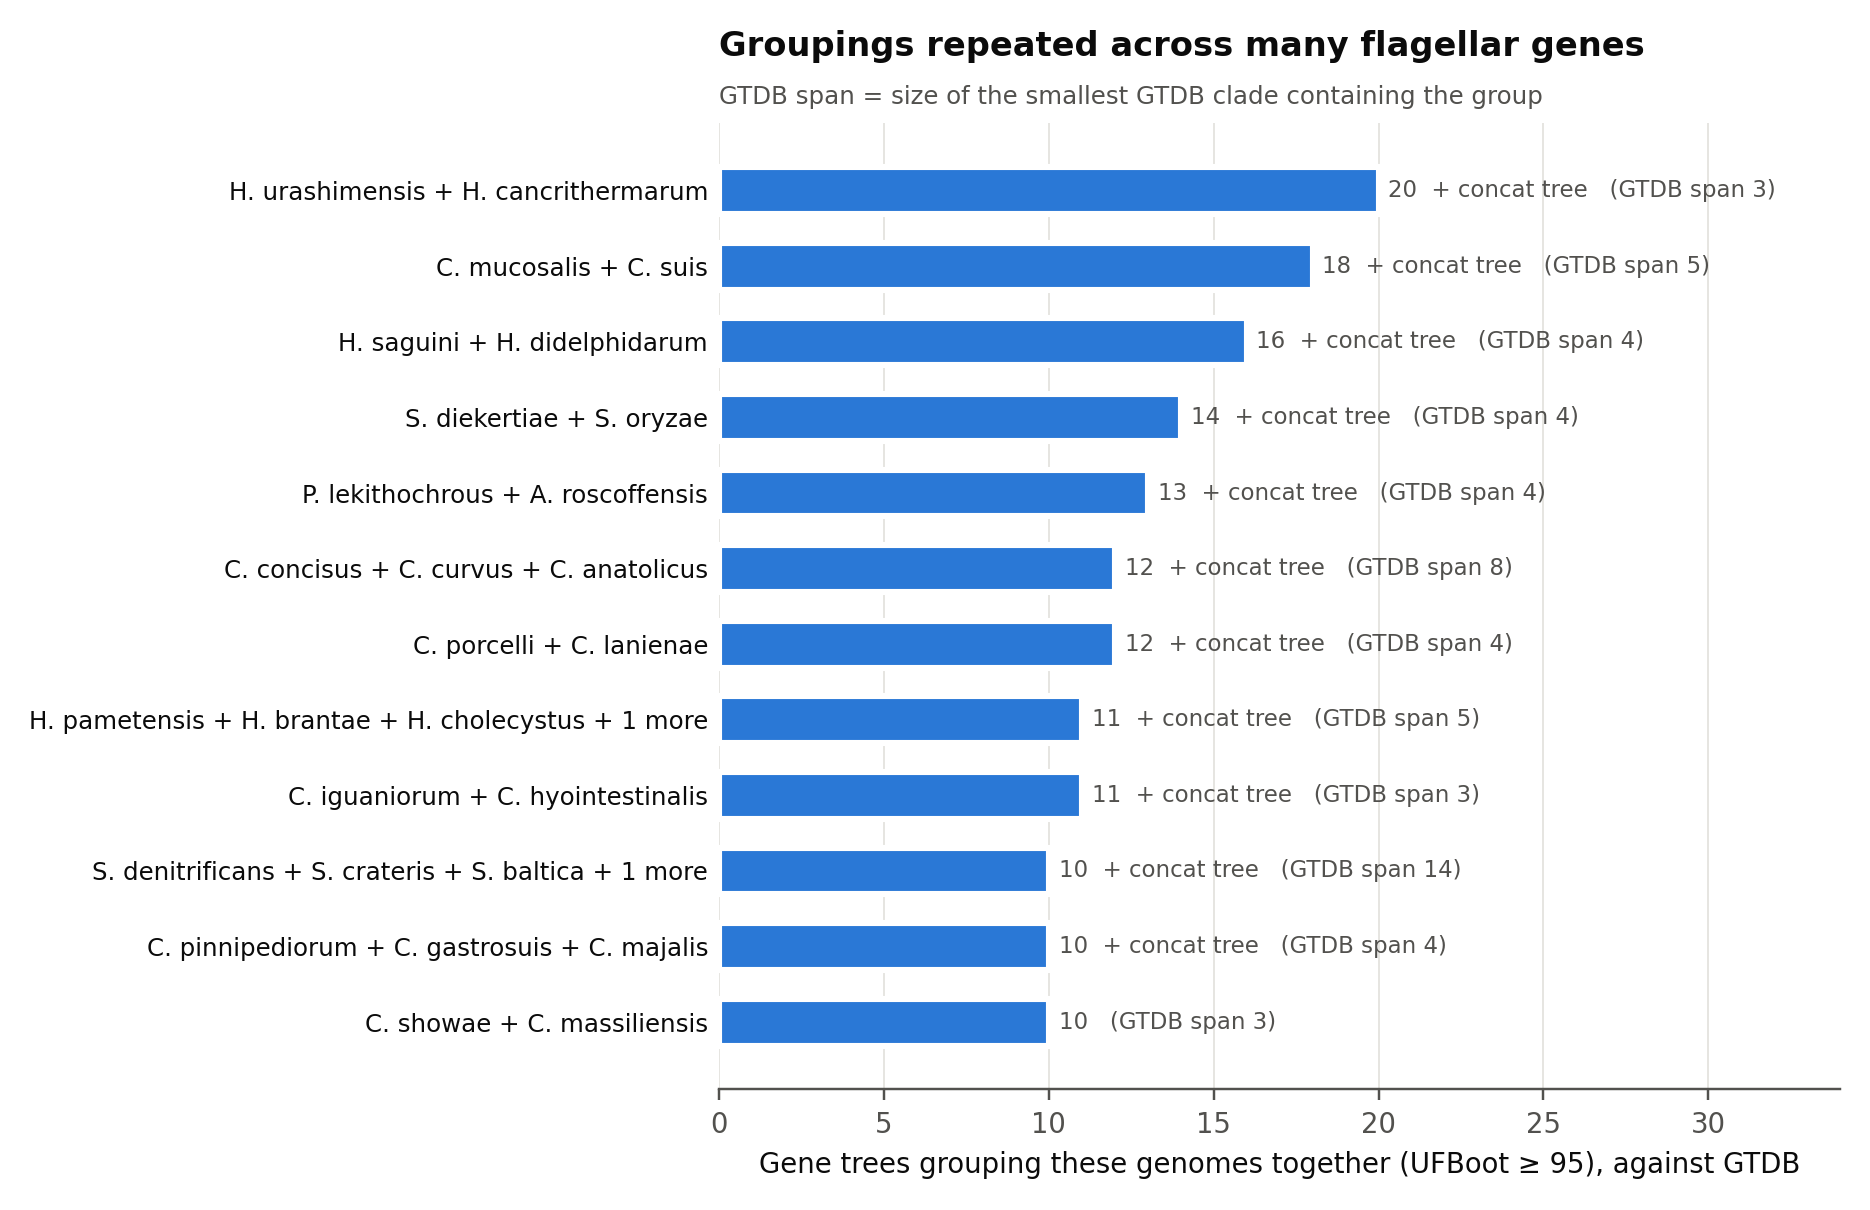
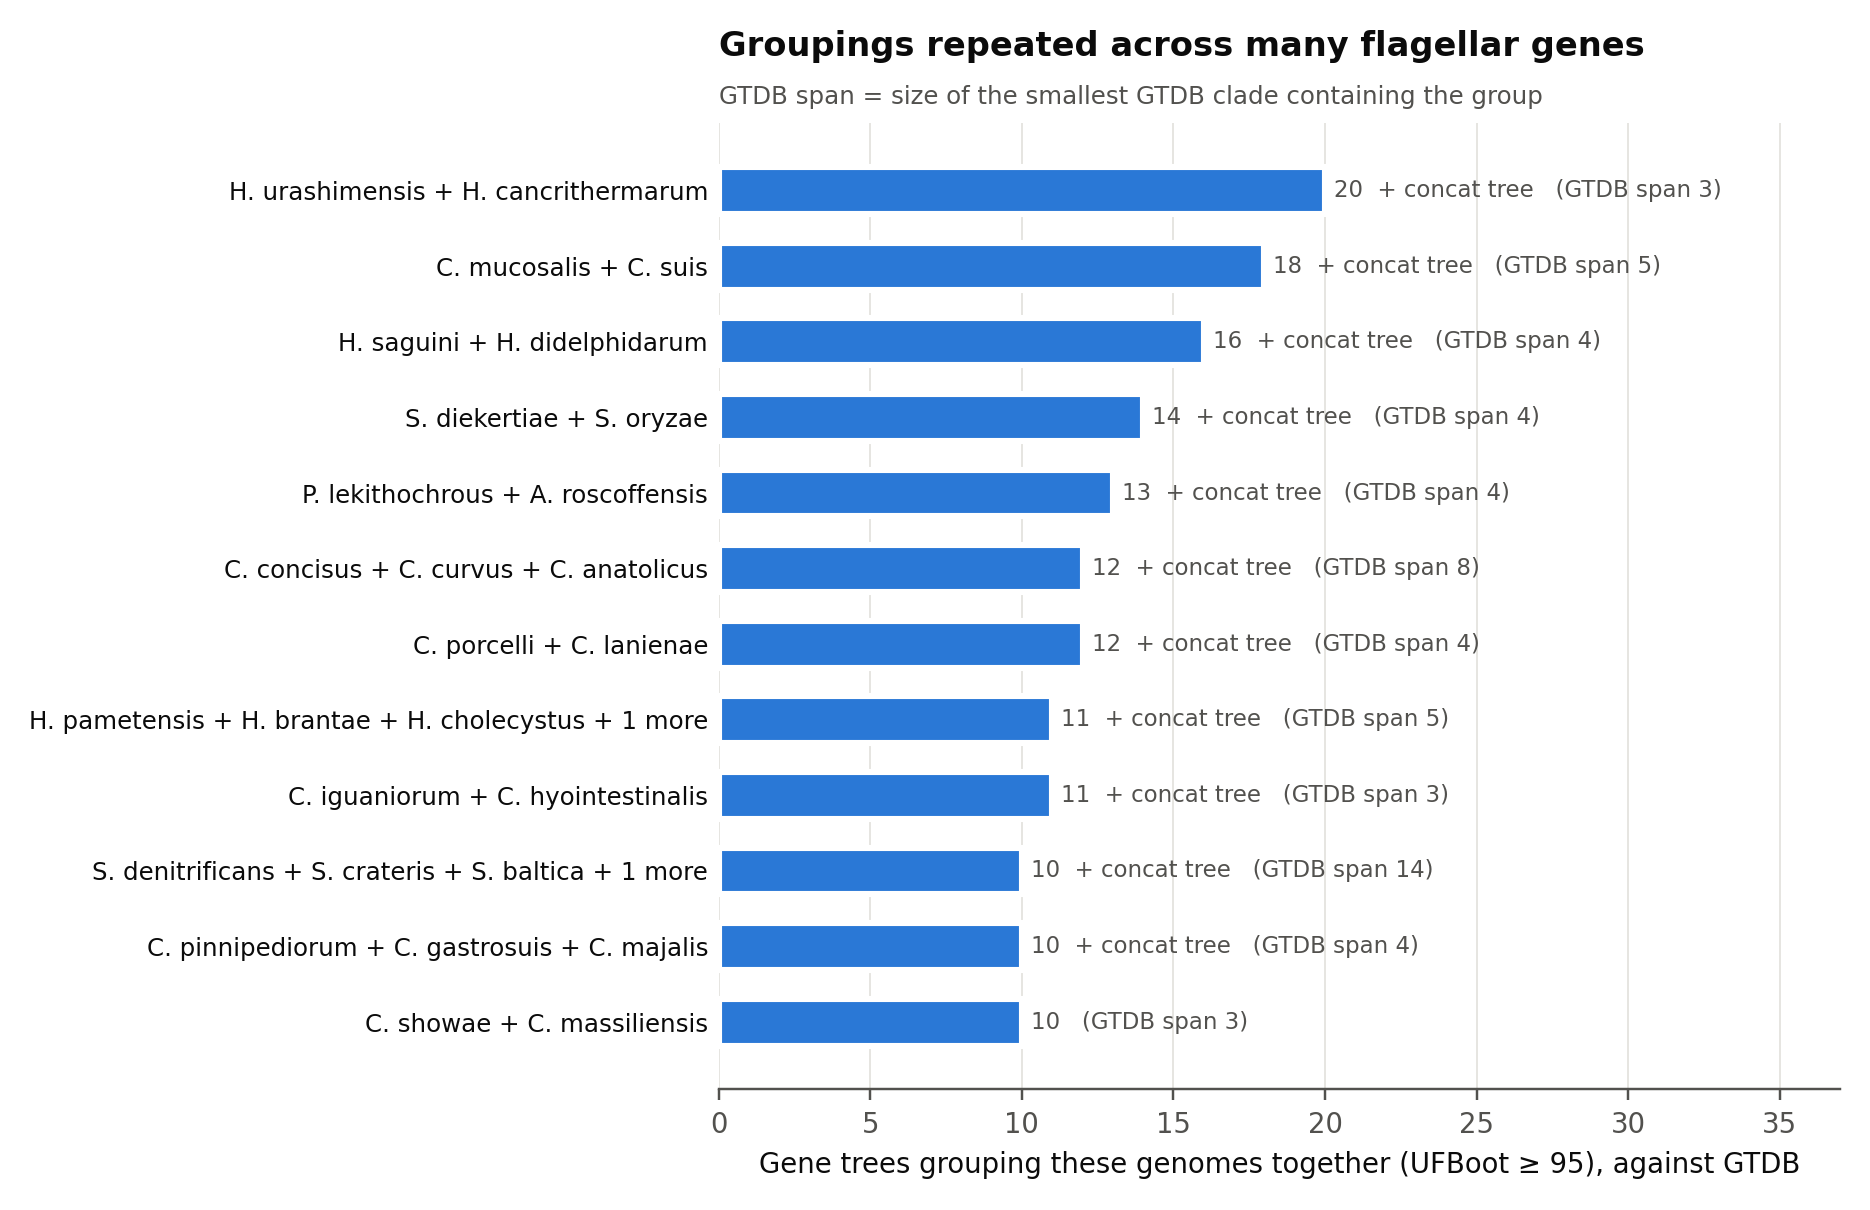
Verification pass: fix stale gene counts in figures; characterise Poseidonibacter case; correct FlgS/FlgR reading
- plot_results.py read '34 genes' from run 1; now counts genes.txt (37).
- RESULTS.md: Poseidonibacter/Arcobacter discordance spans both flagellar
  loci (19/22 genes), flagellar/marker divergence ratio 4.2 vs ~6, direction
  unresolved (GC 28.5 vs 28.7%).
- flgS and flgR are 68-1445 kb apart and support different groupings:
  independent signals, not a co-transfer.

Claude-Session: https://claude.ai/code/session_01NnNHdsAmpXXpidbD6nPzg2

diff --git a/scripts/11_flagellar_trees/plot_results.py b/scripts/11_flagellar_trees/plot_results.py
@@ -29,6 +29,7 @@ from screen_hgt_candidates import bitmask_splits, smaller_side
 
 D = "gene_order/flagellar_trees"
 OUT = f"{D}/figures"
+N_GENES = len(open(f"{D}/genes.txt").read().split())
 
 TEXT, TEXT2, GRID = "#0b0b0b", "#52514e", "#e4e3df"
 SEQ = ["#cde2fb", "#9ec5f4", "#6da7ec", "#3987e5", "#256abf", "#184f95", "#0d366b"]
@@ -152,9 +153,9 @@ def fig1_tanglegram(org):
 
     n = len(taxa)
     ax.text(tree_w / 2, 2.2, "GTDB species tree", ha="center", fontsize=12, weight="bold", color=TEXT)
-    ax.text(tree_w / 2, 0.9, "branch colour = gCF (share of the 34 flagellar gene trees containing it)",
+    ax.text(tree_w / 2, 0.9, f"branch colour = gCF (share of the {N_GENES} flagellar gene trees containing it)",
             ha="center", fontsize=7.5, color=TEXT2)
-    ax.text(xr_tip + tree_w / 2, 2.2, "Concatenated flagellar tree (34 genes)", ha="center",
+    ax.text(xr_tip + tree_w / 2, 2.2, f"Concatenated flagellar tree ({N_GENES} genes)", ha="center",
             fontsize=12, weight="bold", color=TEXT)
     ax.text(xr_tip + tree_w / 2, 0.9, "solid = UFBoot ≥ 95, dashed = UFBoot < 95; rooted on Desulfurellia",
             ha="center", fontsize=7.5, color=TEXT2)
@@ -268,7 +269,7 @@ def fig3_concordance(org):
     ax.set_xticks([0, 20, 40, 60, 80, 100])
     ax.set_xlabel("gCF: % of flagellar gene trees containing the branch")
     ax.set_ylabel("sCF: % of informative sites supporting the branch")
-    ax.set_title("Concordance of the 34 flagellar genes with each GTDB branch", loc="left",
+    ax.set_title(f"Concordance of the {N_GENES} flagellar genes with each GTDB branch", loc="left",
                  fontsize=11, color=TEXT, weight="bold")
     ax.legend(loc="upper center", bbox_to_anchor=(0.5, -0.13), ncol=2, frameon=False, fontsize=8)
 
@@ -314,7 +315,7 @@ def fig4_recurrent(n_show=12):
     ax.set_yticks(ys)
     ax.set_yticklabels([name(g) for g in top], fontsize=8, color=TEXT)
     ax.set_xlabel("Gene trees grouping these genomes together (UFBoot ≥ 95), against GTDB")
-    ax.set_xlim(0, 34)
+    ax.set_xlim(0, N_GENES)
     ax.xaxis.grid(True, color=GRID, lw=0.6)
     ax.set_axisbelow(True)
     ax.spines["left"].set_visible(False)

diff --git a/gene_order/flagellar_trees/RESULTS.md b/gene_order/flagellar_trees/RESULTS.md
@@ -20,9 +20,9 @@ genes show 4 to be species-tree problems, 3 remain unresolved, and **1 is a
 genuine discordance: *Poseidonibacter lekithochrous* + *Arcobacter
 roscoffensis***, where the genome backbone rejects the grouping the flagellar
 genes support (p = 0.006; Holm 0.048) — non-vertical inheritance of the
-flagellar genes. A single-gene screen (73 cases) adds 5 clean cases of
-individual genes with a history different from the genome (fliG, flgD, and the
-FlgS/FlgR regulator pair), none recent.
+flagellar genes, involving both of its flagellar loci. A single-gene screen
+(73 cases) adds 5 clean cases of individual genes with a history different
+from the genome (fliG, flgD, flgR, flgS ×2), none recent.
 
 Run 1 (34 genes / 153 genomes, 26 Sep) is superseded; its headline numbers are
 within 1–2 % of run 2's (table in §1).
@@ -395,6 +395,30 @@ primary candidates in the Holm correction, *Poseidonibacter* is p = 0.024.
   (one conflict; markers lean against the flagellar grouping, p ≈ 0.05, not
   significant after correction) and *Nitrosophilus* (p = 0.10).
 
+### The Poseidonibacter / Arcobacter case in detail
+- **Where the conflict is.** Among the four genomes alone, both trees split
+  them the same way (*P. parvus* + *P. antarcticus* | *P. lekithochrous* +
+  *A. roscoffensis*). They differ in where the rest of the phylum attaches: the
+  marker tree makes *A. roscoffensis* the outsider (so *P. lekithochrous* sits
+  with its genus), the flagellar tree makes *lekithochrous* + *roscoffensis* a
+  group of their own.
+- **Distances.** Flagellar: *lekithochrous*–*roscoffensis* 0.22 vs
+  *lekithochrous*–*parvus* 0.35. Markers: 0.053 vs 0.049. Flagellar genes
+  normally diverge ~6× faster than the markers here (*parvus*–*antarcticus*
+  0.157 vs 0.025); for *lekithochrous*–*roscoffensis* the ratio is 4.2 — their
+  flagellar genes share a more recent ancestor than their genomes.
+- **It is the whole flagellar gene set.** *P. lekithochrous* has two flagellar
+  loci (≈ 2.94–2.97 Mb and 3.24–3.25 Mb on NZ_CP054052.1). In both, nearly
+  every gene tree groups it with *A. roscoffensis* (19 of 22 resolvable genes;
+  13 at UFBoot ≥ 95); only flgD, flgB and flgH follow the genome, weakly
+  (UFBoot 71–94).
+- **Direction unresolved.** Either genome could be the recipient (both give
+  the same topology), and base composition cannot tell: genome GC 28.5 % vs
+  28.7 %, flagellar genes 29.4 % vs 29.9 %.
+- **Interpretation.** Replacement or homologous recombination of the flagellar
+  gene set, at both loci, between the *P. lekithochrous* and *A. roscoffensis*
+  lineages, after they diverged but not recently.
+
 ### Single-gene screen (genes that moved on their own)
 M13. 73 single-gene conflicts with the ML marker tree tested; 58 not supported
 (the gene cannot reject the marker arrangement), 1 half-supported, **14 with
@@ -407,7 +431,7 @@ the same genomes' other genes. After the checks:
 | Status | Gene | Group | Note |
 |---|---|---|---|
 | **clean** | fliG | *H. turcicus* / *ibis* / *winghamensis* | same group also in flgE (below) |
-| **clean** | flgR | *C. rectus* / *showae* / *curvus* / *massiliensis* | with flgS below: the FlgS–FlgR flagellar two-component regulator, both in the *C. concisus/rectus* group |
+| **clean** | flgR | *C. rectus* / *showae* / *curvus* / *massiliensis* | flgS (next row) also conflicts in this clade, but with a different grouping, and flgS/flgR lie 68–1,445 kb apart in every genome here — two separate signals, not one co-transfer |
 | **clean** | flgS | *C. concisus* / *rectus* / *massiliensis* | |
 | **clean** | flgS | *C. subantarcticus* / *peloridis* | |
 | **clean** | flgD | *Sulfurimonas hydrogeniphila* / *indica* | |
@@ -416,9 +440,10 @@ the same genomes' other genes. After the checks:
 | composition caveat | flgI, fliI, fliD | Hippea/Desulfurella/Nitrosophilus/Nitratiruptor; Nautiliales | thermophile artefact (§3) |
 
 **Reading.** Single-gene non-vertical inheritance is also rare: 5 clean
-cases in 5 genes out of 73 tested, none recent. The most coherent is the
-flagellar regulatory pair FlgS/FlgR disagreeing with the genome in the same
-*C. concisus/rectus* clade. Caveats as for the AU tests: cases were selected
+cases in 5 genes out of 73 tested, none recent. Two of them (flgS, flgR, the
+FlgS–FlgR two-component regulator) fall in the same *C. concisus/rectus*
+clade, but they support different groupings and the genes are far apart in
+every genome, so they are independent signals rather than one co-transfer. Caveats as for the AU tests: cases were selected
 from the same gene trees (post-selection p-values), and 150–600-site genes
 carry limited signal.
 
@@ -428,13 +453,11 @@ carry limited signal.
    discordance (*P. lekithochrous* + *A. roscoffensis*), 4 GTDB problems,
    3 unresolved.
 2. ~~Single-gene screen~~ Done (M13, §4): 5 clean single-gene cases, 9
-   caveated. Next for these: check FlgS/FlgR gene neighbourhoods in the
-   *C. concisus/rectus* clade.
-3. **Characterise the Poseidonibacter/Arcobacter case**: which genome's
-   flagellar genes moved (compare branch lengths / placement in each gene
-   tree), flagellar gene order vs. both relatives (existing synteny outputs),
-   mobile elements and GC/codon usage around the flagellar clusters.
-   Optionally a whole-genome core-gene tree as a second backbone.
+   caveated. FlgS/FlgR neighbourhoods checked: not co-located (§4).
+3. **Poseidonibacter/Arcobacter case**: partly characterised (§4: both loci,
+   whole gene set, not recent, direction unresolved). Remaining: flagellar
+   gene order in the four genomes, mobile elements near the two loci, and a
+   whole-genome core-gene tree as a second backbone.
 3. **Thermophile artefact check**: site-heterogeneous model / recoding (§3).
 4. Donor search (DIAMOND vs RefSeq) only for candidates surviving 1.
 5. **Planned sensitivity analysis — motility-essential genes below the
